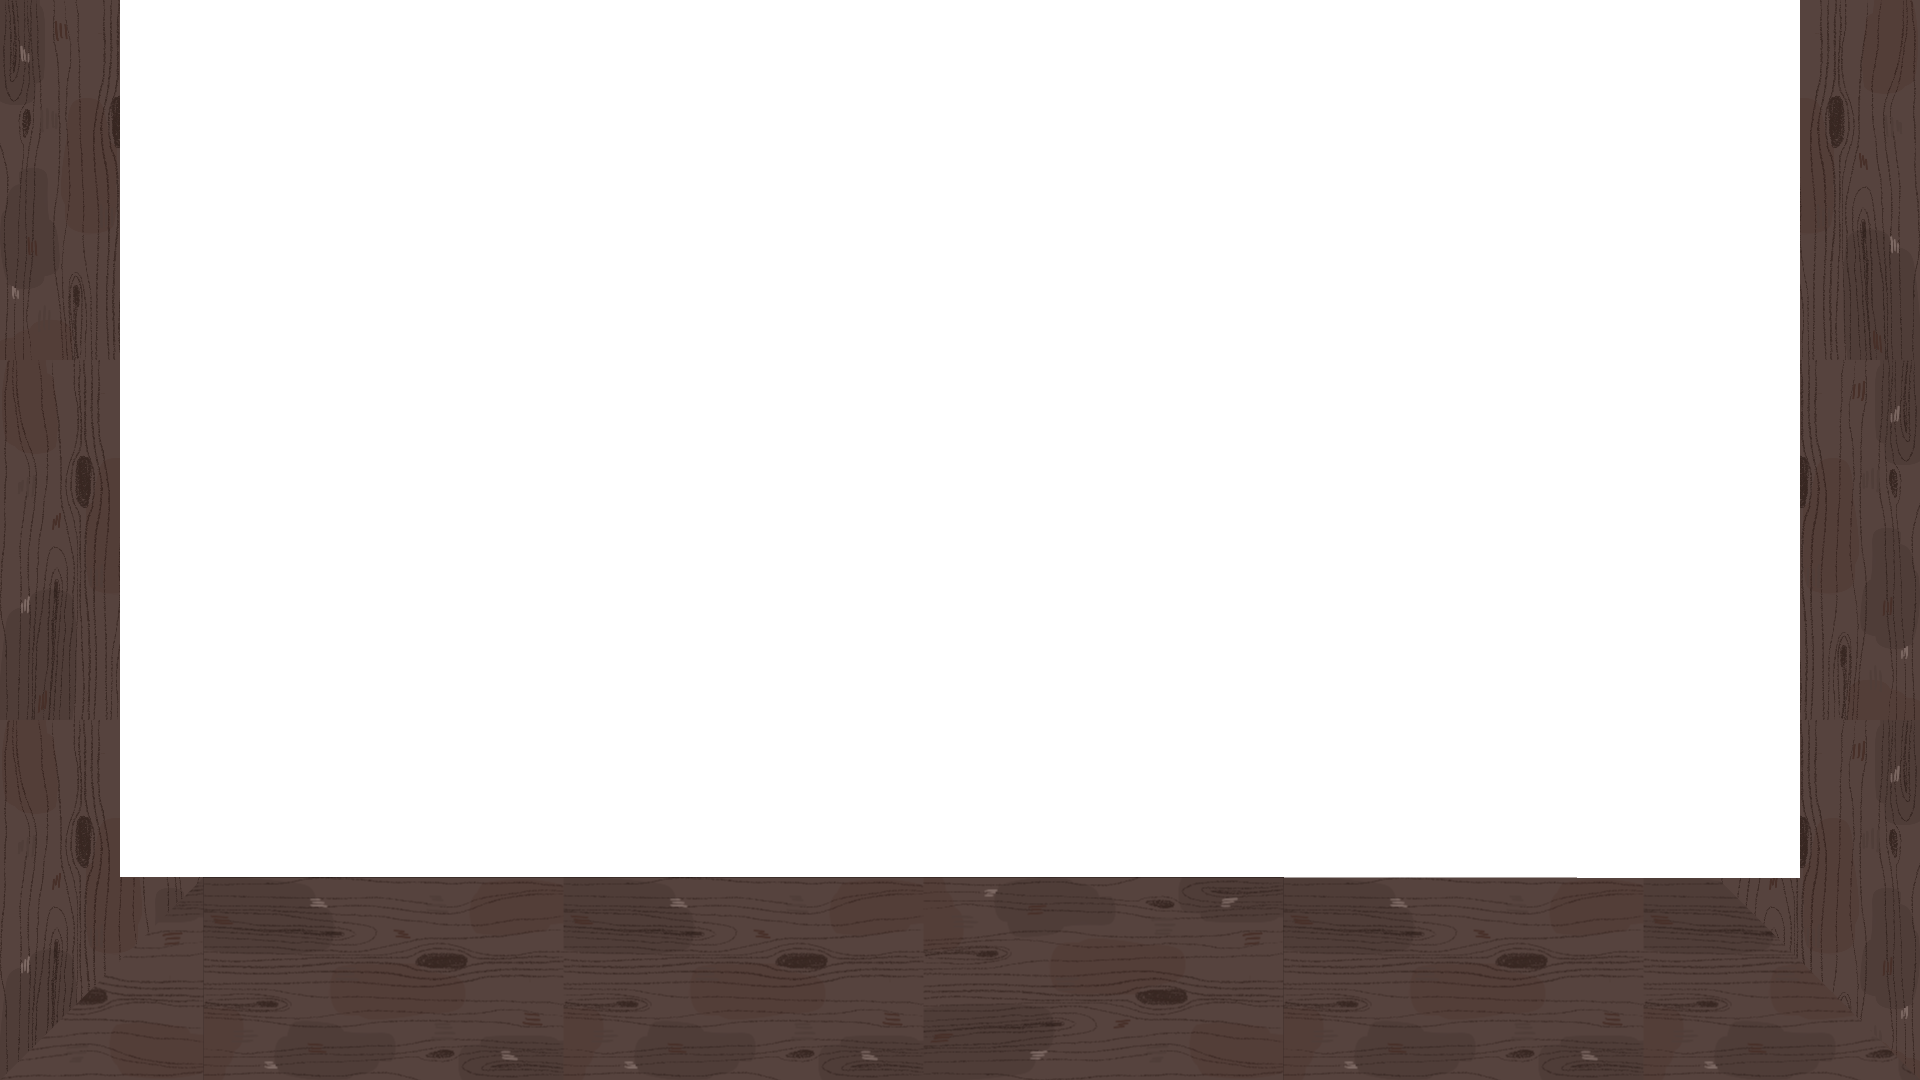
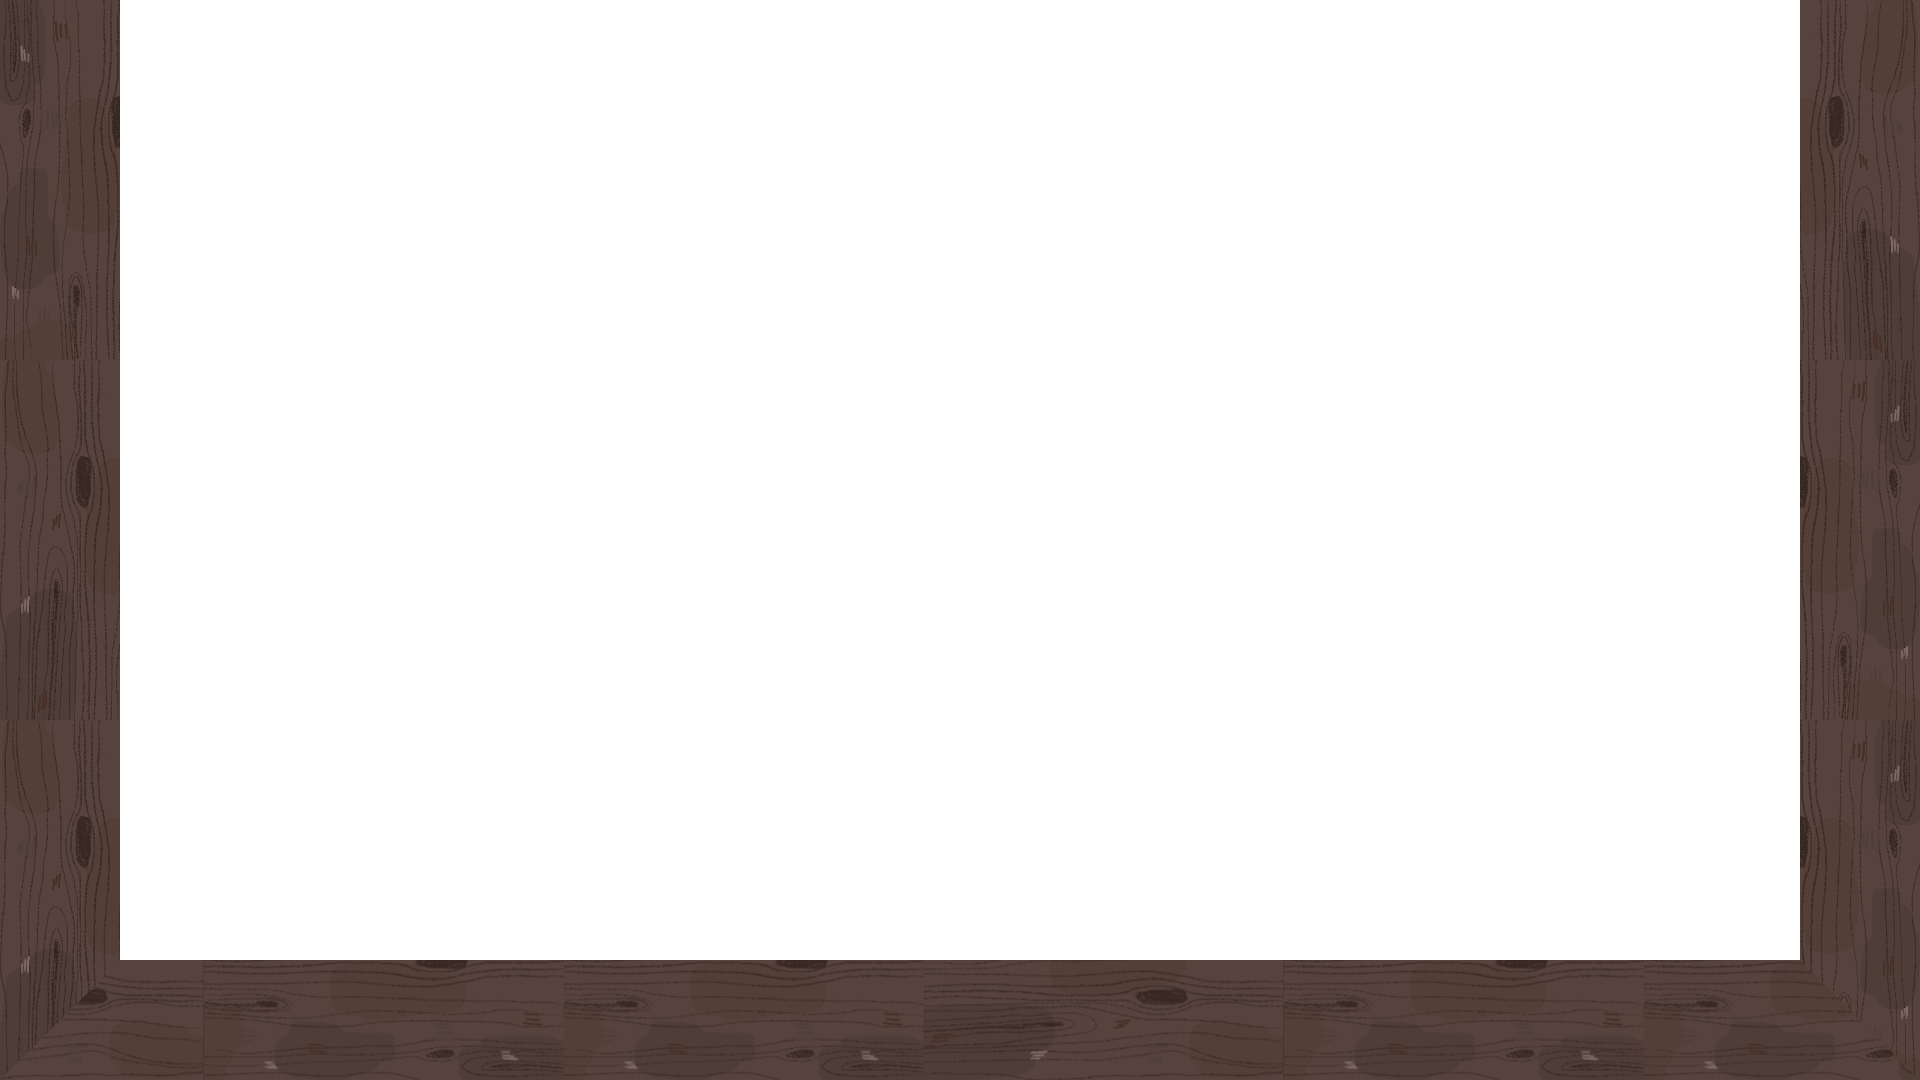
stations, to stations!

Changed region(s): [[0.0625, 0.7944, 0.9375, 0.8861]]

diff --git a/src/hu/hunjam25/dlhc/Kitchen.java b/src/hu/hunjam25/dlhc/Kitchen.java
@@ -1,13 +1,11 @@
 package hu.hunjam25.dlhc;
 
 import java.util.ArrayList;
+import java.util.Random;
 import java.util.stream.Stream;
 
 import hu.hunjam25.dlhc.gameplay.Minigame;
-import hu.hunjam25.dlhc.model.Chef;
-import hu.hunjam25.dlhc.model.Ingredient;
-import hu.hunjam25.dlhc.model.Rat;
-import hu.hunjam25.dlhc.model.Workstation;
+import hu.hunjam25.dlhc.model.*;
 import hu.hunjam25.dlhc.view.ParticleEffect;
 import hu.hunjam25.dlhc.view.Sprite;
 import hu.hunjam25.dlhc.view.UiElement;
@@ -62,22 +60,15 @@ public class Kitchen {
     public static void init() {
         rat = new Rat();
 
-        // trash workstation must be first in Kitchen.workstations!!!
-        workstations.add(new Workstation(Workstation.WorkstationType.Trash, new Vec2(2f, 1f),
-                new Vec2(0f, 0.5f)));
-        // trash workstation must be first in Kitchen.workstations!!!
-        workstations.add(new Workstation(Workstation.WorkstationType.Stove, new Vec2(12f, 3f),
-                new Vec2(0f, -0.5f)));
-        workstations.add(new Workstation(Workstation.WorkstationType.Fridge, new Vec2(5f, 3f),
-                new Vec2(0, -0.5f)));
-        workstations.add(new Workstation(Workstation.WorkstationType.Sink, new Vec2(6f, 3f),
-                new Vec2(0, -0.5f)));
-        workstations.add(new Workstation(Workstation.WorkstationType.ChoppingBoard, new Vec2(8f, 3f),
-                new Vec2(0, -0.5f)));
-        workstations.add(new Workstation(Workstation.WorkstationType.Oven, new Vec2(9f, 3f),
-                new Vec2(0, -0.5f)));
-        workstations.add(new Workstation(Workstation.WorkstationType.Belt, new Vec2(12f, 1f),
-                new Vec2(-0.5f, 0f)));
+        //defLaylout();
+        for (int i = 1; i < Game.MAP_WIDTH; ++i) {
+            workstations.add(new Workstation(Workstation.WorkstationType.values()[Food.r.nextInt(Workstation.WorkstationType.values().length)], new Vec2((float)i, 5f),
+                    new Vec2(0, -0.5f)));
+        }
+        for (int i = 1; i < Game.MAP_WIDTH; ++i) {
+            workstations.add(new Workstation(Workstation.WorkstationType.ChoppingBoard, new Vec2((float)i, 1f),
+                    new Vec2(0, -0.5f)));
+        }
 
         chefs.add(new Chef());
         chefs.add(new Chef());
@@ -87,6 +78,25 @@ public class Kitchen {
         //element.visible = true;
         //element.scale = 0.5f;
         //rat.addUiElement(element);
+    }
+
+    private static void defLaylout() {
+        // trash workstation must be first in Kitchen.workstations!!!
+        workstations.add(new Workstation(Workstation.WorkstationType.Trash, new Vec2(2f, 5f),
+                new Vec2(0f, 0.5f)));
+        // trash workstation must be first in Kitchen.workstations!!!
+        workstations.add(new Workstation(Workstation.WorkstationType.Stove, new Vec2(12f, 5f),
+                new Vec2(0f, -0.5f)));
+        workstations.add(new Workstation(Workstation.WorkstationType.Fridge, new Vec2(5f, 5f),
+                new Vec2(0, -0.5f)));
+        workstations.add(new Workstation(Workstation.WorkstationType.Sink, new Vec2(6f, 5f),
+                new Vec2(0, -0.5f)));
+        workstations.add(new Workstation(Workstation.WorkstationType.ChoppingBoard, new Vec2(8f, 5f),
+                new Vec2(0, -0.5f)));
+        workstations.add(new Workstation(Workstation.WorkstationType.Oven, new Vec2(9f, 5f),
+                new Vec2(0, -0.5f)));
+        workstations.add(new Workstation(Workstation.WorkstationType.Belt, new Vec2(12f, 5f),
+                new Vec2(-0.5f, 0f)));
     }
 
     public static Stream<GameObject> getGameObjects() {

diff --git a/src/hu/hunjam25/dlhc/Game.java b/src/hu/hunjam25/dlhc/Game.java
@@ -87,7 +87,6 @@ public class Game {
         //g.translate(1f * Game.TILE_SIZE, 0f);
         Kitchen.wallpaper.render(g);
         g.setTransform(transform);
-        Kitchen.woodFrame.render(g);
 
         g.clipRect(MAP_OFFSET_X * TILE_SIZE, abs(MAP_OFFSET_Y * TILE_SIZE), MAP_WIDTH * TILE_SIZE,MAP_HEIGHT*TILE_SIZE );
         g.shear(-0.3,0);
@@ -99,6 +98,8 @@ public class Game {
             g.setTransform(transform);
             o.render(g);
         });
+        g.setTransform(transform);
+        Kitchen.woodFrame.render(g);
     }
 
     static KeyListener listener = new KeyListener() {

diff --git a/src/hu/hunjam25/dlhc/model/Food.java b/src/hu/hunjam25/dlhc/model/Food.java
@@ -10,7 +10,7 @@ public enum Food {
     ScrambledEggs(new Ingredient[] { Ingredient.Egg, Ingredient.Water, Ingredient.Egg, Ingredient.Plating }),
     ;
 
-    private static Random r = new Random(System.currentTimeMillis());
+    public static Random r = new Random(System.currentTimeMillis());
 
     public Ingredient[] ingredients;
 
